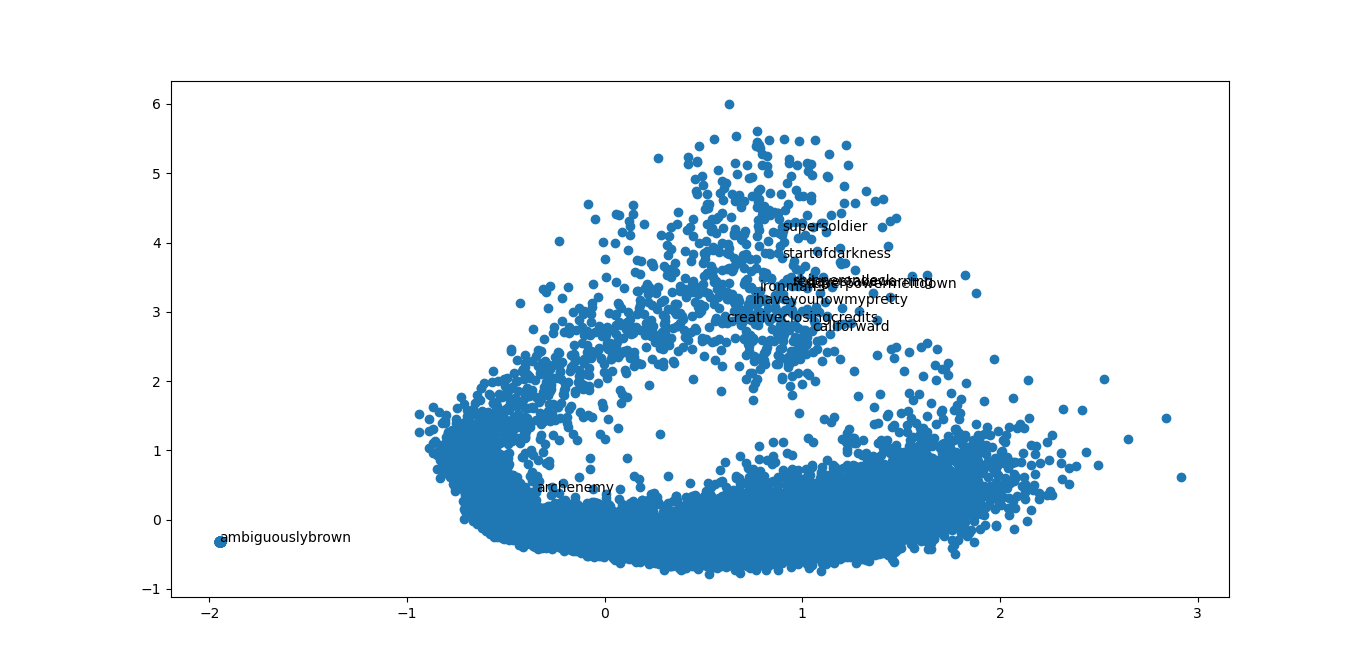
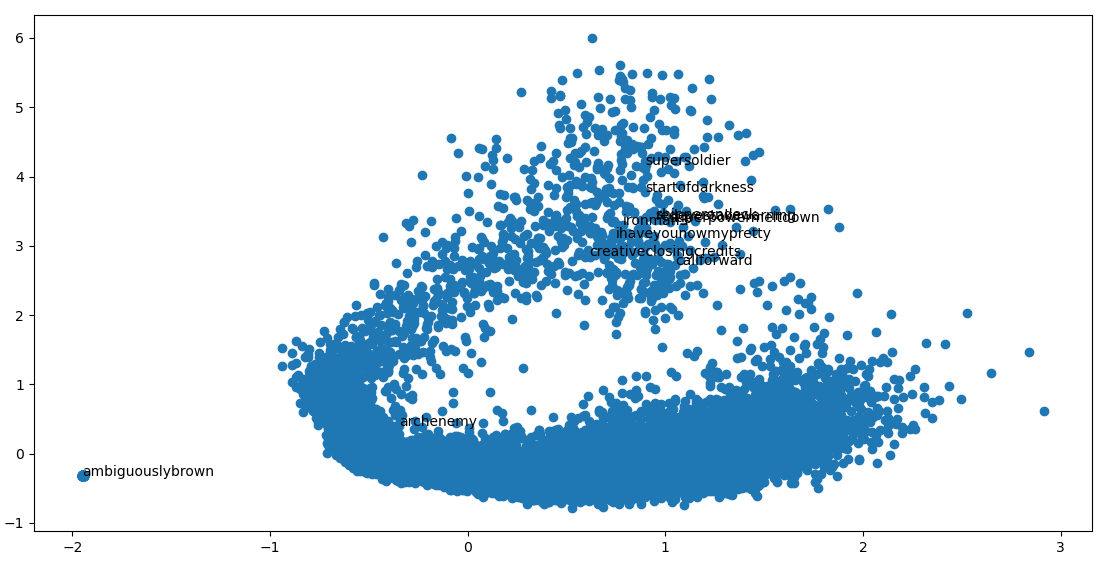
cluster visualization zoon in and zoom out images

diff --git a/iccc20/iccc.tex b/iccc20/iccc.tex
@@ -441,13 +441,23 @@ In order to generate the artificial corpus, we have followed this procedure. We 
 	\section{Results}
 	\label{sec:res}
 	
-		\begin{figure*}
+		\begin{figure}
 		\centering
-		\includegraphics[width=1\linewidth]{../images/cluster-36-visualization-new-corpus-v3-1024-ironman3.png}
-		\caption{Cluster visualization}
-		\label{fig:cluster-visualization}
-	\end{figure*}
+		\includegraphics[width=1\linewidth]{../images/cluster-36-visualization-new-corpus-v3-1024-ironman3-font-16-zoom-in.png}
+		\caption{Cluster visualization zoom in}
+		\label{fig:cluster-visualization-zoom-in}
+	\end{figure}
 	
+	
+		\section{Results}
+	\label{sec:res}
+	
+	\begin{figure}
+		\centering
+		\includegraphics[width=1\linewidth]{../images/cluster-36-visualization-new-corpus-v3-1024-ironman3-zoom-out.png}
+		\caption{Cluster visualization zoom out}
+		\label{fig:cluster-visualization-zoom-out}
+	\end{figure}
 	
 	
 	

diff --git a/scripts/cluster-visualization.py b/scripts/cluster-visualization.py
@@ -60,5 +60,5 @@ words_c1024_36 = ['ambiguouslybrown',
          'supersoldier']
 
 for i, word in enumerate(words_c1024_36):
-	pyplot.annotate(word, xy=(result[i, 0], result[i, 1]))
+	pyplot.annotate(word, xy=(result[i, 0], result[i, 1]), fontsize=16)
 pyplot.show()
